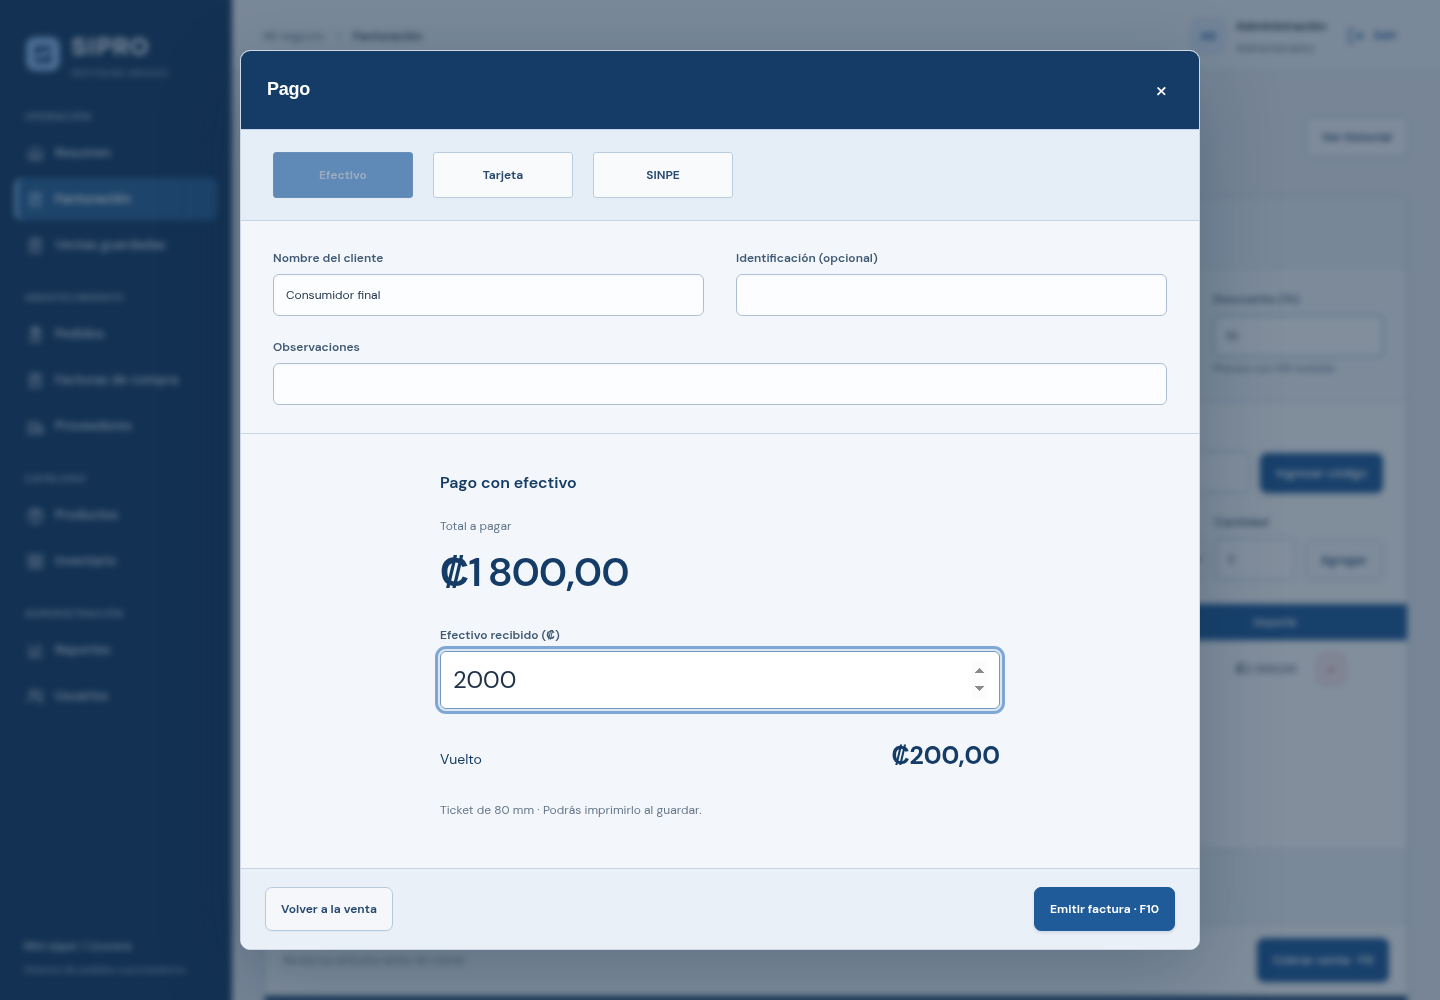
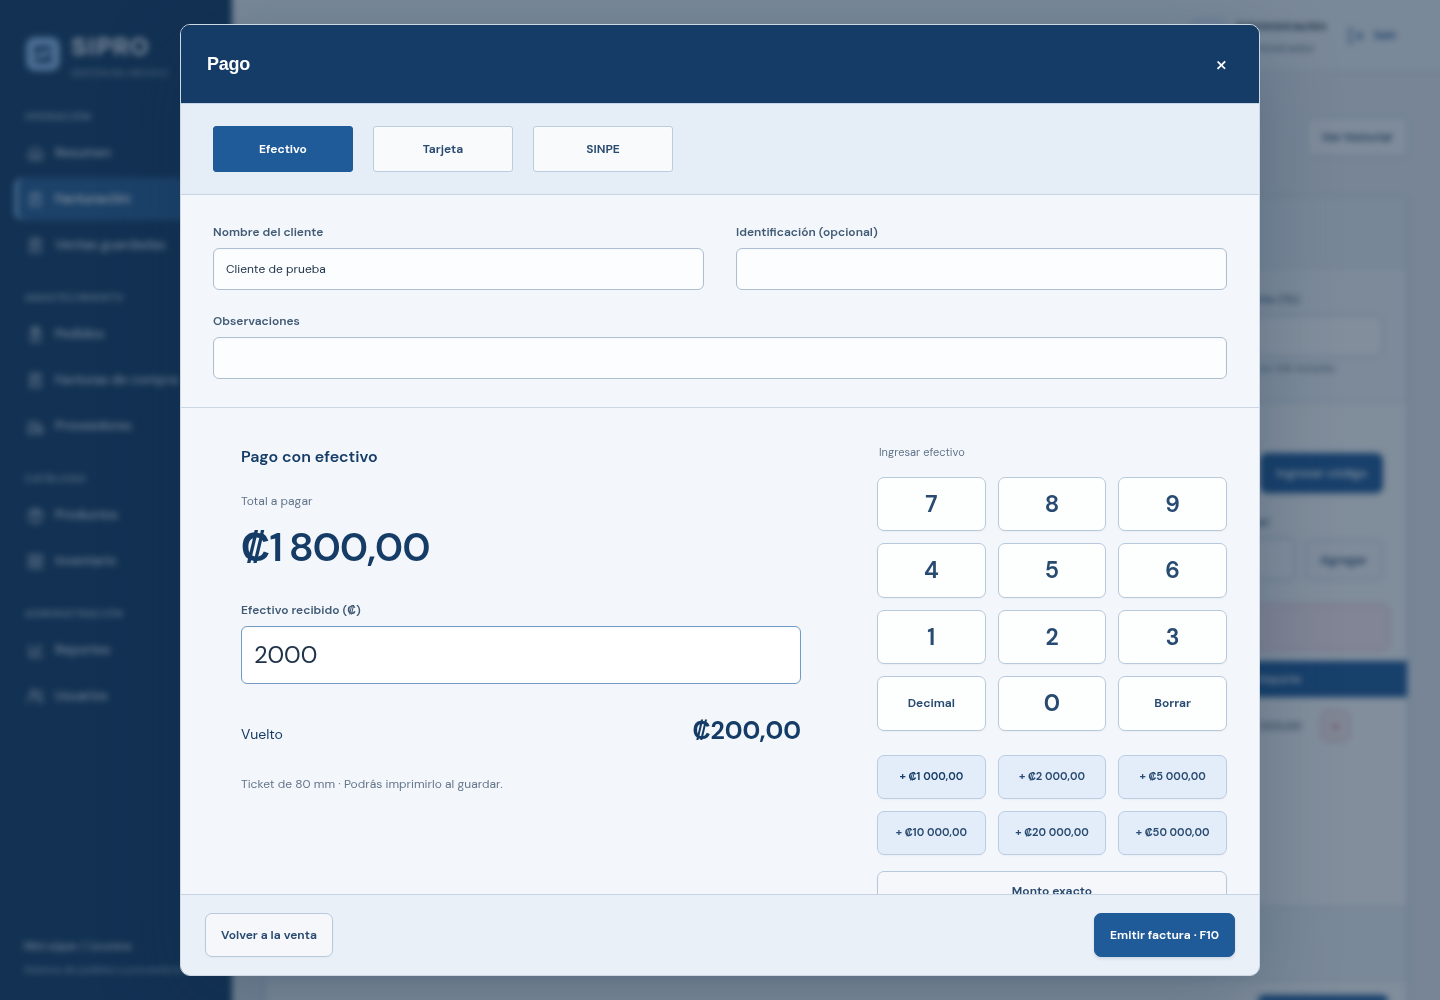
Restaurar teclado y billetes con mayor separación en el cobro

diff --git a/public/js/controllers/sales-checkout.js b/public/js/controllers/sales-checkout.js
@@ -35,15 +35,28 @@ export function checkoutSale() {
       ),
       total: crc(total),
       width: receiptWidth(),
+      keys: ["7", "8", "9", "4", "5", "6", "1", "2", "3", ".", "0", "Borrar"]
+        .map((key) =>
+          view("pos-cash-key", { key, label: key === "." ? "Decimal" : key }),
+        )
+        .join(""),
+      denominations: [1000, 2000, 5000, 10000, 20000, 50000]
+        .map((value) =>
+          view("pos-cash-denomination", { value, label: crc(value) }),
+        )
+        .join(""),
     }),
   );
   const form = $("#checkout-form"),
     modal = $("#modal"),
     input = $('[name="paid"]', form);
   let busy = false;
+  // Keep a string for a trailing decimal point while using the keypad.
+  let cashText = model.saleDraft.paid;
   function paintPayment() {
     const cash = model.saleDraft.payment === "Efectivo";
     $("#cash-field").hidden = !cash;
+    $("#cash-keyboard").hidden = !cash;
     input.required = cash;
     input.disabled = !cash;
     $("#electronic-payment").hidden = cash;
@@ -67,9 +80,16 @@ export function checkoutSale() {
       cash && balance < 0 ? "El efectivo recibido no cubre el total." : "",
     );
   }
+  function setCash(value) {
+    cashText = value;
+    input.value = value.endsWith(".") ? value.slice(0, -1) : value;
+    model.saleDraft.paid = input.value;
+    paintPayment();
+  }
   form.oninput = (e) => {
     if (e.target.name in model.saleDraft)
       model.saleDraft[e.target.name] = e.target.value;
+    if (e.target === input) cashText = input.value;
     paintPayment();
   };
   form.onclick = (e) => {
@@ -79,7 +99,27 @@ export function checkoutSale() {
       model.saleDraft.payment = payment.dataset.payment;
       paintPayment();
     }
+    const key = e.target.closest("[data-cash-key]")?.dataset.cashKey;
+    if (key) {
+      if (key === "Borrar") setCash(cashText.slice(0, -1));
+      else if (key === ".") {
+        if (!cashText.includes(".")) setCash((cashText || "0") + ".");
+      } else if (
+        cashText.length < 14 &&
+        (!cashText.includes(".") || cashText.split(".")[1].length < 2)
+      )
+        setCash(cashText + key);
+    }
+    const denomination = e.target.closest("[data-cash-add]")?.dataset.cashAdd;
+    if (denomination)
+      setCash(
+        String(
+          Math.round((Number(cashText || 0) + Number(denomination)) * 100) /
+            100,
+        ),
+      );
   };
+  $("#exact-cash").onclick = () => setCash(String(total));
   // Block closing while the server confirms the sale, so another checkout cannot submit it again.
   const guardCancel = (e) => {
     if (busy) e.preventDefault();

diff --git a/public/styles/pos.css b/public/styles/pos.css
@@ -177,8 +177,8 @@
   min-height: 41px;
 }
 #modal:has(.pos-checkout) {
-  width: min(960px, calc(100vw - 32px));
-  max-width: 960px;
+  width: min(1080px, calc(100vw - 32px));
+  max-width: 1080px;
 }
 #modal:has(.pos-checkout) .dialog-head {
   background: #153c66;
@@ -225,7 +225,9 @@
 }
 .pos-payment-body {
   display: grid;
-  grid-template-columns: minmax(0, 1fr);
+  grid-template-columns: minmax(0, 1fr) 350px;
+  align-items: start;
+  gap: 48px;
   padding: 36px 32px;
 }
 .pos-payment-amounts {
@@ -277,10 +279,51 @@
   color: #64758a;
   margin-top: 26px;
 }
+.pos-keyboard {
+  margin: 0;
+  padding: 0;
+  border: 0;
+  min-width: 0;
+}
+.pos-keyboard legend {
+  color: #60738a;
+  font-size: 11px;
+  margin-bottom: 16px;
+}
+.pos-keypad {
+  display: grid;
+  grid-template-columns: repeat(3, minmax(0, 1fr));
+  gap: 12px;
+}
+.pos-keypad .btn {
+  font-size: 23px;
+  min-height: 54px;
+  background: #fdfefe;
+}
+.pos-keypad .btn[data-cash-key="Borrar"],
+.pos-keypad .btn[data-cash-key="."] {
+  font-size: 12px;
+}
+.pos-denominations {
+  display: grid;
+  grid-template-columns: repeat(3, minmax(0, 1fr));
+  gap: 12px;
+  margin: 24px 0 16px;
+}
+.pos-denominations .btn {
+  min-height: 44px;
+  padding: 10px 6px;
+  font-size: 11px;
+  background: #e3edf9;
+  border-color: #b9cde3;
+}
 .pos-checkout > .error {
   margin: 0 24px;
 }
 .pos-checkout-footer {
+  position: sticky;
+  bottom: 0;
+  z-index: 1;
   display: flex;
   justify-content: space-between;
   gap: 12px;
@@ -295,6 +338,16 @@
 .pos-checkout :focus-visible {
   outline: 3px solid #7fa7d5;
   outline-offset: 2px;
+}
+@media (max-width: 760px) {
+  .pos-payment-body {
+    grid-template-columns: minmax(0, 1fr);
+    gap: 32px;
+  }
+  .pos-keyboard {
+    width: min(100%, 400px);
+    margin-inline: auto;
+  }
 }
 @media (max-width: 600px) {
   .pos-counter {
@@ -344,8 +397,8 @@
   }
   .pos-payment-body {
     grid-template-columns: minmax(0, 1fr);
-    padding: 16px;
-    gap: 20px;
+    padding: 24px 16px;
+    gap: 32px;
   }
   .pos-checkout-footer {
     padding: 16px;

diff --git a/public/views/sales.html b/public/views/sales.html
@@ -107,6 +107,14 @@
           Ticket de {{{width}}} mm · Podrás imprimirlo al guardar.
         </p>
       </section>
+      <fieldset class="pos-keyboard" id="cash-keyboard">
+        <legend>Ingresar efectivo</legend>
+        <div class="pos-keypad">{{{keys}}}</div>
+        <div class="pos-denominations">{{{denominations}}}</div>
+        <button type="button" class="btn block" id="exact-cash">
+          Monto exacto
+        </button>
+      </fieldset>
     </div>
     <p class="error" role="alert"></p>
     <div class="pos-checkout-footer">
@@ -118,6 +126,22 @@
     </div>
   </form>
 </template>
+<template id="pos-cash-key"
+  ><button
+    type="button"
+    class="btn"
+    data-cash-key="{{{key}}}"
+    aria-label="{{{label}}}"
+  >
+    {{{label}}}
+  </button></template
+>
+<template id="pos-cash-denomination"
+  ><button type="button" class="btn" data-cash-add="{{{value}}}">
+    + {{{label}}}
+  </button></template
+>
+
 <template id="invoices-page-2">
   <strong>{{{esc}}}</strong><small>{{{esc2}}} · {{{stock}}} disponibles</small>
 </template>

diff --git a/README.md b/README.md
@@ -93,7 +93,7 @@ La interfaz recupera el azul **#1f5a99** y el azul oscuro **#153c66**, con fondo
 
 [Ver ventana de cobro](docs/capturas/cobro.png) · [Ver pantalla de acceso](docs/capturas/acceso.png) · [Ver resumen del negocio](docs/capturas/resumen.png) · [Ver ejemplo de ticket de 80 mm](docs/capturas/ticket-80.png)
 
-- **Facturación:** ingresa productos por código o lector de barras que funcione como teclado y finalice con Enter. También puedes seleccionarlos con **Buscar producto**, indicar la cantidad y pulsar **Agregar**. Revisa cantidades y descuento y pulsa **Cobrar venta**. En la ventana **Pago**, completa el cliente y elige efectivo, tarjeta o SINPE. Escribe el monto directamente en **Efectivo recibido**; se muestra el vuelto o cuánto falta por recibir. Cada factura usa un solo medio de pago. Pulsa **Emitir factura** para guardar y descontar inventario. **Volver a la venta** conserva el borrador durante la sesión de la página; recargarla descarta una venta todavía no emitida.
+- **Facturación:** ingresa productos por código o lector de barras que funcione como teclado y finalice con Enter. También puedes seleccionarlos con **Buscar producto**, indicar la cantidad y pulsar **Agregar**. Revisa cantidades y descuento y pulsa **Cobrar venta**. En la ventana **Pago**, completa el cliente y elige efectivo, tarjeta o SINPE. Escribe el monto en **Efectivo recibido** o utiliza el teclado numérico. Los botones de billetes suman al monto recibido y **Monto exacto** lo iguala al total. El teclado y los billetes tienen mayor separación; se muestra el vuelto o cuánto falta por recibir. Cada factura usa un solo medio de pago. Pulsa **Emitir factura** para guardar y descontar inventario. **Volver a la venta** conserva el borrador durante la sesión de la página; recargarla descarta una venta todavía no emitida.
 - **Ventas guardadas:** consulta facturas por número, cliente, fechas y estado. Abre **Ver / reimprimir ticket** para imprimir comprobantes anteriores. Reimprimir no crea otra venta ni vuelve a descontar inventario.
 - Atajos de caja: **F2** código, **F4** catálogo, **F8** historial, **F9** abrir cobro. **F10** abre el cobro desde la caja y emite la factura desde la ventana Pago, después de validar los campos. Los otros diálogos no reciben atajos de caja.
 

diff --git a/docs/DISENO-SAAS-AZUL.md b/docs/DISENO-SAAS-AZUL.md
@@ -51,6 +51,6 @@ No se reproducen cifras, metas comerciales ni sucursales de las capturas: las es
 
 La caja toma la distribución de las fotografías de Qupos: barra de acciones, total destacado, entrada por código, tabla de artículos a todo el ancho y una franja de estado inferior. Se conserva la identidad azul de SIPRO. La revisión elimina los accesos rápidos y deja el ingreso por código o selección del catálogo. Las cantidades se validan contra existencias tanto en la interfaz como en el servidor.
 
-La ventana Pago separa cliente, medio de pago y confirmación. Las opciones de efectivo, tarjeta y SINPE tienen mayor separación, junto a campos de cliente con más espacio. El monto recibido se escribe directamente; se eliminan el teclado numérico y los botones de billetes. Cada factura conserva un solo medio de pago. Muestra lo que falta por recibir o el vuelto; la factura se guarda antes de abrir su ticket. En móvil los paneles se apilan, la tabla permite desplazamiento horizontal y el diálogo tiene desplazamiento vertical. No se agregan opciones decorativas de crédito, cheque o dólares que el sistema no procese.
+La ventana Pago separa cliente, medio de pago y confirmación. Las opciones de efectivo, tarjeta y SINPE tienen mayor separación, junto a campos de cliente con más espacio. El monto recibido puede escribirse directamente o ingresarse con el teclado numérico y los botones de billetes. Estos controles se conservan con 12 px entre botones, 24 px entre el teclado y los billetes y 48 px respecto al resumen del cobro en escritorio. En móvil se apilan con 32 px entre secciones. Cada factura conserva un solo medio de pago. Muestra lo que falta por recibir o el vuelto; la factura se guarda antes de abrir su ticket. En móvil los paneles se apilan, la tabla permite desplazamiento horizontal y el diálogo tiene desplazamiento vertical. No se agregan opciones decorativas de crédito, cheque o dólares que el sistema no procese.
 
 [Facturación](capturas/caja.png) · [Pago](capturas/cobro.png)

diff --git a/docs/ARQUITECTURA-MVC.md b/docs/ARQUITECTURA-MVC.md
@@ -93,6 +93,6 @@ El modelo `src/models/dashboard.js` agrega importes en centavos, incluye IVA y d
 
 ## Caja y cobro
 
-`controllers/sales.js` coordina el escaneo, la selección del catálogo y las líneas de venta. `controllers/sales-checkout.js` gestiona la ventana Pago, la entrada directa del efectivo, la selección del medio de pago y el envío de la factura. Ambos usan el borrador de `models/app-model.js` y los totales provisionales de `models/financial-model.js`; el servidor sigue validando precios, impuestos y existencias al guardar. La estructura está en `views/sales.html` y la presentación específica en `styles/pos.css`, aplicada solo a pantalla.
+`controllers/sales.js` coordina el escaneo, la selección del catálogo y las líneas de venta. `controllers/sales-checkout.js` gestiona la ventana Pago, la entrada directa o por teclado numérico, los botones de billetes, la selección del medio de pago y el envío de la factura. Ambos usan el borrador de `models/app-model.js` y los totales provisionales de `models/financial-model.js`; el servidor sigue validando precios, impuestos y existencias al guardar. La estructura está en `views/sales.html` y la presentación específica en `styles/pos.css`, aplicada solo a pantalla.
 
 Durante la confirmación se bloquean los controles y el cierre del diálogo para impedir otro envío desde la misma caja. Tras una respuesta de guardado exitosa se vacía el borrador antes de refrescar los datos. El ticket y el historial conservan sus controladores y plantillas existentes. Las pruebas de `tests/browser-pos.mjs` usan una base temporal y comprueban cantidades, escaneo, efectivo insuficiente, vuelto, tarjeta/SINPE, doble pulsación y móvil.
